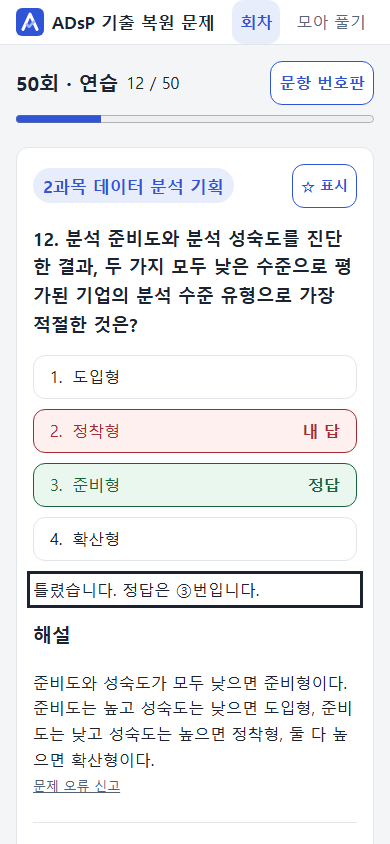
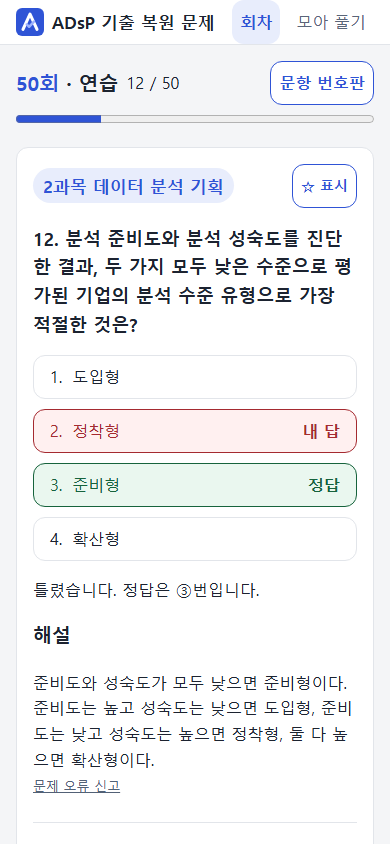
회차 이름에서 회차 정보로 이동, 화면 다듬기 (#24)
- 연습 / 시험 / 결과 / 다시 보기 맨 위의 회차 이름을 누르면 회차 정보로 이동
- 마지막 문제와 결과 화면의 단추를 회차 정보로 변경
- 회차 정보의 PDF 칸 정렬, 과목 구성 표 제목 줄바꿈 방지
- 정답 확인 뒤 결과 문장의 검은 테두리 제거
- 화면 이동 Test 안정화, README 화면 이미지 갱신

Changed region(s): [[0.0615, 0.6777, 0.9231, 0.7393], [0.0308, 0.0924, 0.1538, 0.1232], [0.9231, 0.6777, 0.9538, 0.7085]]

diff --git a/src/styles/main.css b/src/styles/main.css
@@ -161,6 +161,8 @@
 .round-number { font-size: var(--font-heading); }
 .card-status { display: flex; justify-content: space-between; gap: var(--space-small); margin-top: var(--space-medium); }
 .card-open, .breadcrumb a { color: var(--accent); }
+.round-title-link { color: var(--accent); text-decoration: none; }
+.round-title-link:hover, .round-title-link:focus { text-decoration: underline; }
 .round-card.in-progress { border-color: var(--accent); box-shadow: 0 0 0 2px var(--accent-soft); }
 .record-exam, .record-pass, .record-fail { display: inline-block; font-weight: 700; padding: var(--chip-padding-block) var(--chip-padding-inline); border-radius: var(--radius-pill); }
 .record-exam { color: var(--accent); background: var(--accent-soft); }
@@ -180,9 +182,11 @@
 .info-records h2, .subject-composition h2 { margin-bottom: var(--space-small); }
 .info-records p + p, .info-records .overview-actions { margin-top: var(--space-small); }
 .saved-score { font-size: var(--font-title); }
-.subject-composition table { width: 100%; table-layout: fixed; font-size: var(--font-small); }
+.subject-composition table { width: 100%; table-layout: auto; font-size: var(--font-small); }
 .subject-composition th { text-align: left; overflow-wrap: anywhere; }
-.subject-composition th:first-child { width: 54%; }
+.subject-composition th:first-child { width: auto; }
+.subject-composition thead th, .subject-composition td { white-space: nowrap; }
+.subject-composition th, .subject-composition td { padding-inline: 2px; }
 .subject-composition td { text-align: right; }
 @media (min-width: 640px) {
   .round-list, .mode-options { grid-template-columns: repeat(2, minmax(0, 1fr)); }
@@ -224,6 +228,7 @@ main { flex: 1; padding-block: var(--space-medium); }
 .secondary { color: var(--accent); background: var(--surface); }
 a:hover, button:hover { text-decoration: underline; }
 :focus-visible { outline: 3px solid #1c2330; outline-offset: 3px; }
+h2[tabindex="-1"], p[tabindex="-1"] { outline: none; }
 .state-panel { padding-block: var(--space-large); }
 .state-panel p { margin-bottom: var(--space-medium); }
 footer { padding: var(--space-medium); text-align: center; font-size: var(--font-small); color: var(--muted); background: var(--surface); border-top: 1px solid var(--border); }
@@ -325,10 +330,16 @@ button:disabled { cursor: default; }
 .download-actions { display: flex; align-items: center; gap: 1rem; flex-wrap: wrap; }
 .download-actions small { margin-left: .5rem; }
 .download-actions p { margin-bottom: 0; }
+.round-downloads .download-actions { display: grid; grid-template-columns: repeat(2, minmax(0, 1fr)); align-items: start; }
+.round-downloads .download-actions > div { min-width: 0; text-align: center; }
+.round-downloads .download-actions > div:only-child { grid-column: 1 / -1; }
+.round-downloads .button { width: 100%; }
 .round-downloads { margin-top: var(--space-medium); }
 .home-download-link { margin: 1.5rem 0; }
 @media (max-width: 767px) {
   .service-bar nav .pdf-nav { display: none; }
   .download-row { align-items: stretch; flex-direction: column; }
-  .round-downloads .download-actions { align-items: stretch; flex-direction: column; }
+}
+@media (max-width: 639px) {
+  .round-downloads .download-actions { grid-template-columns: minmax(0, 1fr); }
 }

diff --git a/src/pages/ExamResult.test.tsx b/src/pages/ExamResult.test.tsx
@@ -1,3 +1,4 @@
+import '../test/asyncQueries';
 import { act, cleanup, fireEvent, render, screen, waitFor, within } from '@testing-library/react';
 import { afterEach, beforeEach, expect, test, vi } from 'vitest';
 import App from '../App';
@@ -36,6 +37,28 @@ async function ready() {
 const readExam = () => JSON.parse(localStorage.getItem(recordKey(50, 'exam'))!);
 const choice = (number: number) => screen.getByRole('button', { name: new RegExp(`^${number}\\. 표본`) });
 const openSubmit = () => fireEvent.click(screen.getByRole('button', { name: '제출하고 채점' }));
+
+test('round heading exit saves answers and elapsed time and pauses until returning', async () => {
+  exam({}, 1, 60);
+  await ready();
+  fireEvent.click(choice(2));
+  vi.useFakeTimers({ shouldAdvanceTime: true });
+  await act(async () => { vi.advanceTimersByTime(3000); });
+  fireEvent.click(screen.getByRole('link', { name: '50회' }));
+  await screen.findByRole('heading', { name: 'ADsP 50회 복원 문제' });
+  expect(screen.queryByRole('dialog')).toBeNull();
+  const saved = readExam();
+  expect(saved.answers).toEqual({ 1: 2 });
+  expect(saved.elapsedSeconds).toBe(63);
+  await act(async () => { vi.advanceTimersByTime(10000); });
+  expect(readExam()).toEqual(saved);
+  fireEvent.click(screen.getByRole('link', { name: '시험 이어 풀기' }));
+  await screen.findByRole('heading', { name: '50회 · 시험' });
+  expect(choice(2).getAttribute('aria-pressed')).toBe('true');
+  expect(screen.getByText('남은 시간 88:57')).toBeTruthy();
+  expect(readExam().answers).toEqual(saved.answers);
+  expect(readExam().elapsedSeconds).toBe(63);
+});
 
 test('exam keyboard toggles choices and submit dialog traps and restores focus', async () => {
   await ready();
@@ -311,7 +334,7 @@ test.each([
 test.each([false, true])('question result links, counts and review action, perfect=%s', async perfect => {
   result(answersFor(perfect ? all : [1])); window.location.hash = '#/rounds/50/result'; render(<App />);
   await screen.findByRole('heading', { name: '50회 · 결과' });
-  expect(screen.getByRole('link', { name: '회차 목록' }).getAttribute('href')).toBe('#/rounds');
+  expect(screen.getByRole('link', { name: '회차 정보로' }).getAttribute('href')).toBe('#/rounds/50');
   await waitFor(() => expect(screen.getByRole('link', { name: '1번, 맞은 문제' }).getAttribute('href')).toBe('#/rounds/50/review?q=1'));
   await waitFor(() => expect(screen.getByRole('link', { name: `3번, ${perfect ? '맞은 문제' : '틀린 문제'}` }).getAttribute('href')).toBe('#/rounds/50/review?q=3'));
   expect(await screen.findByText(`틀린 문제 ${perfect ? 0 : 49}`)).toBeTruthy();

diff --git a/src/pages/PracticePage.tsx b/src/pages/PracticePage.tsx
@@ -82,12 +82,12 @@ function PracticeRound({ data }: { data: RoundData }) {
   const question = data.questions[current - 1];
   const board = <QuestionBoard marked={marks.marked} data={data} current={current} answers={answers} move={move} restart={restart} />;
   return <>
-    <div className="practice-heading"><div className="practice-heading-row"><h2>{data.round}회 · 연습</h2><p>{current} / {data.questions.length}</p><button className="board-toggle secondary" onClick={() => setOpen(true)}>문항 번호판</button></div><progress aria-label="현재 문제 위치" value={current} max={data.questions.length} /></div>
+    <div className="practice-heading"><div className="practice-heading-row"><h2><Link to={`/rounds/${data.round}`} className="round-title-link">{data.round}회</Link> · 연습</h2><p>{current} / {data.questions.length}</p><button className="board-toggle secondary" onClick={() => setOpen(true)}>문항 번호판</button></div><progress aria-label="현재 문제 위치" value={current} max={data.questions.length} /></div>
     {(!persistent || !marks.persistent) && <p className="notice">이 브라우저에서는 풀이 기록을 저장할 수 없습니다.</p>}
     <div className="practice-layout"><div className="practice-main">
       <QuestionView marked={Boolean(marks.marked[`${data.round}:${current}`])} toggleMark={() => marks.toggle(data.round, current)} round={data.round} question={question} subjects={data.subjects} selected={answers[current] ?? draft} confirmed={confirmed} choose={choose} />
       <nav className="practice-nav" aria-label="문제 이동"><button className="secondary" disabled={current === 1} onClick={() => move(current - 1)}>이전</button><button className={!confirmed && draft !== undefined ? '' : 'secondary'} aria-disabled={confirmed || draft === undefined} onClick={confirm}>정답 확인</button>
-        {current === data.questions.length ? <Link className={`button ${confirmed ? '' : 'secondary'}`} to="/rounds">회차 목록</Link> : <button className={confirmed ? '' : 'secondary'} onClick={() => move(current + 1)}>다음</button>}
+        {current === data.questions.length ? <Link className={`button ${confirmed ? '' : 'secondary'}`} to={`/rounds/${data.round}`}>회차 정보로</Link> : <button className={confirmed ? '' : 'secondary'} onClick={() => move(current + 1)}>다음</button>}
       </nav>
     </div><aside className="desktop-board" aria-label="문항 번호판">{board}</aside></div>
     {open && <Modal label="문항 번호판" close={() => setOpen(false)}><button className="secondary" onClick={() => setOpen(false)}>닫기</button>{board}</Modal>}

diff --git a/src/pages/ResultPage.tsx b/src/pages/ResultPage.tsx
@@ -17,7 +17,7 @@ function ResultRound({ data }: { data: RoundData }) {
   const result = scoreRound(data, record.answers);
   const wrong = result.questionCount - result.correctCount;
   return <section className="result-panel">
-    <div className="result-heading"><h2>{data.round}회 · 결과</h2><p>걸린 시간 {formatRemainingTime(record.elapsedSeconds)}</p></div>
+    <div className="result-heading"><h2><Link to={`/rounds/${data.round}`} className="round-title-link">{data.round}회</Link> · 결과</h2><p>걸린 시간 {formatRemainingTime(record.elapsedSeconds)}</p></div>
     {!store.canPersist() && <p className="notice">이 브라우저에서는 풀이 기록을 저장할 수 없습니다.</p>}
     <div className="result-summary"><p className="result-score">{result.score}점</p><p className={`result-verdict ${result.passed ? 'correct' : 'wrong'}`}>{result.passed ? '합격' : '불합격'}</p>
     {result.failureReasons.map(reason => <p key={reason}>{reason}</p>)}
@@ -28,6 +28,6 @@ function ResultRound({ data }: { data: RoundData }) {
     </section>)}</div>
     <h3>문항별 결과</h3>
     <div className="result-grid">{result.questions.map(question => <Link key={question.number} className={question.correct ? 'correct' : 'wrong'} aria-label={`${question.number}번, ${question.correct ? '맞은 문제' : '틀린 문제'}`} to={`/rounds/${data.round}/review?q=${question.number}`}>{question.number}</Link>)}</div><p>틀린 문제 {wrong}</p>
-    <nav className="round-actions"><Link className="button secondary" to="/rounds">회차 목록</Link><Link className="button" to={`/rounds/${data.round}/review${wrong ? '?filter=wrong' : ''}`}>{wrong ? '틀린 문제 보기' : '전체 문제 보기'}</Link></nav>
+    <nav className="round-actions"><Link className="button secondary" to={`/rounds/${data.round}`}>회차 정보로</Link><Link className="button" to={`/rounds/${data.round}/review${wrong ? '?filter=wrong' : ''}`}>{wrong ? '틀린 문제 보기' : '전체 문제 보기'}</Link></nav>
   </section>;
 }

diff --git a/src/App.test.tsx b/src/App.test.tsx
@@ -1,3 +1,4 @@
+import './test/asyncQueries';
 vi.mock('./data/loadDownloads', () => ({ loadDownloads: async () => ({ formatVersion: 1, rounds: {} }) }));
 import { cleanup, fireEvent, render, screen, waitFor, within } from '@testing-library/react';
 import { afterEach, beforeEach, expect, test, vi } from 'vitest';
@@ -130,6 +131,25 @@ test.each(['#/rounds/999', '#/rounds/999/practice'])('unknown round %s provides 
   window.location.hash = hash; render(<App />); await screen.findByText('없는 회차입니다.');
   expect(screen.getByRole('link', { name: '회차 목록으로' }).getAttribute('href')).toBe('#/rounds'); footer();
 });
+test.each(['practice', 'exam', 'result', 'review'] as const)('%s heading links only the round name to its information', async page => {
+  save(50, 'result', result);
+  window.location.hash = `#/rounds/50/${page}`;
+  render(<App />);
+  const link = await screen.findByRole('link', { name: '50회' });
+  // Question screens normalize their initial query asynchronously. Finish that
+  // navigation before clicking, otherwise it can replace the destination route.
+  if (page !== 'result') {
+    await waitFor(() => expect(window.location.hash).toBe(`#/rounds/50/${page}?q=1`));
+  }
+  expect(link.getAttribute('href')).toBe('#/rounds/50');
+  expect(link.textContent).toBe('50회');
+  expect(link.parentElement?.tagName).toBe('H2');
+  expect(link.parentElement?.textContent).toBe(`50회 · ${{ practice: '연습', exam: '시험', result: '결과', review: '다시 보기' }[page]}`);
+  fireEvent.click(link);
+  await screen.findByRole('heading', { name: 'ADsP 50회 복원 문제' });
+  expect(screen.queryByRole('dialog')).toBeNull();
+});
+
 test('unknown routes redirect to home', async () => {
   window.location.hash = '#/unknown'; render(<App />); await screen.findByRole('link', { name: '최신 50회 풀기' }); await waitFor(() => expect(window.location.hash).toBe('#/'));
 });

diff --git a/src/pages/ExamPage.tsx b/src/pages/ExamPage.tsx
@@ -2,7 +2,7 @@ import { useMarks } from '../storage/useMarks';
 import { Modal } from '../components/Modal';
 import { useQuestionKeys } from '../components/useQuestionKeys';
 import { useEffect, useRef, useState } from 'react';
-import { useNavigate, useSearchParams } from 'react-router';
+import { Link, useNavigate, useSearchParams } from 'react-router';
 import { RoundPage } from '../components/RoundPage';
 import type { PageProps } from '../components/LoadingState';
 import { QuestionView } from '../components/QuestionView';
@@ -120,7 +120,7 @@ function ExamRound({ data }: { data: RoundData }) {
   };
   const question = data.questions[current - 1];
   return <>
-    <div className="practice-heading"><h2>{data.round}회 · 시험</h2><p>푼 문제 {progress.answeredCount} / {data.questions.length}</p>
+    <div className="practice-heading"><h2><Link to={`/rounds/${data.round}`} className="round-title-link">{data.round}회</Link> · 시험</h2><p>푼 문제 {progress.answeredCount} / {data.questions.length}</p>
       <p className={isTimeWarning(timing.remainingSeconds) ? 'time-warning' : ''}>
         {timing.remainingSeconds >= 0 && '남은 시간 '}{formatRemainingTime(timing.remainingSeconds)}
         {timing.remainingSeconds >= 0 && isTimeWarning(timing.remainingSeconds) && ' · 10분 이하'}</p><progress aria-label="푼 문제 진행" value={progress.answeredCount} max={data.questions.length} /></div>

diff --git a/src/pages/PracticePage.test.tsx b/src/pages/PracticePage.test.tsx
@@ -1,3 +1,4 @@
+import '../test/asyncQueries';
 vi.mock('../data/loadDownloads', () => ({ loadDownloads: async () => ({ formatVersion: 1, rounds: {} }) }));
 import { cleanup, fireEvent, render, screen, waitFor, within } from '@testing-library/react';
 import { afterEach, beforeEach, expect, test, vi } from 'vitest';
@@ -203,8 +204,8 @@ test.each([1, 2])('grades selection %s once and preserves state through navigati
   await waitFor(() => expect(screen.getByRole('status').textContent).toBe(answer === 2 ? '맞았습니다.' : '틀렸습니다. 정답은 ②번입니다.'));
   fireEvent.click(screen.getByRole('button', { name: '다음' }));
   await waitFor(() => expect(window.location.hash).toContain('q=2'));
-  expect(await screen.findByRole('link', { name: '회차 목록' })).toBeTruthy();
-  expect(screen.getByRole('link', { name: '회차 목록' }).getAttribute('href')).toBe('#/rounds');
+  expect(await screen.findByRole('link', { name: '회차 정보로' })).toBeTruthy();
+  expect(screen.getByRole('link', { name: '회차 정보로' }).getAttribute('href')).toBe('#/rounds/50');
   await waitFor(() => expect(screen.queryByRole('button', { name: '다음' })).toBeNull());
   fireEvent.click(screen.getByRole('button', { name: '이전' }));
   await waitFor(() => expect(screen.getByRole('status').textContent).toContain(answer === 2 ? '맞았습니다' : '틀렸습니다'));

diff --git a/src/pages/DownloadsPage.test.tsx b/src/pages/DownloadsPage.test.tsx
@@ -1,3 +1,4 @@
+import '../test/asyncQueries';
 import { cleanup, fireEvent, render, screen, within, waitFor } from '@testing-library/react';
 import { afterEach, beforeEach, expect, test, vi } from 'vitest';
 import App from '../App';
@@ -37,6 +38,9 @@ test.each([true, false])('round info section with both / one types: %s', async b
   await screen.findByRole('heading', { name: 'PDF 내려받기' });
   expect(screen.getByRole('link', { name: /900회 풀이용 PDF 내려받기/ })).toBeTruthy();
   expect(!!screen.queryByRole('link', { name: /900회 해설용 PDF 내려받기/ })).toBe(both);
+  const actions = screen.getByRole('link', { name: /900회 풀이용 PDF 내려받기/ }).closest('.download-actions')!;
+  expect(within(actions as HTMLElement).getAllByRole('link')).toHaveLength(both ? 2 : 1);
+  expect(actions.children).toHaveLength(both ? 2 : 1);
   expect(downloadCalls()).toHaveLength(1);
 });
 test('no PDFs hides home link, header link and info section', async () => {

diff --git a/src/pages/ReviewPage.tsx b/src/pages/ReviewPage.tsx
@@ -37,7 +37,7 @@ function ReviewRound({ data }: { data: RoundData }) {
   useQuestionKeys({ toggleMark: () => marks.toggle(data.round, current), blocked: !record, previous: position > 0 ? () => move(scope[position - 1].number) : undefined, next: position < scope.length - 1 ? () => move(scope[position + 1].number) : undefined });
   if (!record) return <div className="state-panel"><p>시험 기록이 없습니다.</p><Link className="button" to={`/rounds/${data.round}/exam`}>시험 시작</Link></div>;
   return <>
-    <div className="practice-heading"><h2>{data.round}회 · 다시 보기</h2>
+    <div className="practice-heading"><h2><Link to={`/rounds/${data.round}`} className="round-title-link">{data.round}회</Link> · 다시 보기</h2>
       <p>{filtered ? '틀린 문제' : '전체'} {position + 1} / {scope.length}</p>
     </div>
     {!marks.persistent && <p className="notice">이 브라우저에서는 풀이 기록을 저장할 수 없습니다.</p>}

diff --git a/src/test/asyncQueries.ts b/src/test/asyncQueries.ts
@@ -1,0 +1,6 @@
+import { configure } from '@testing-library/react';
+
+// Route changes load round data before rendering. Allow headroom when the full
+// suite runs under load; queries still finish immediately when content appears.
+// Import only in page suites so component and domain tests keep their defaults.
+configure({ asyncUtilTimeout: 3000 });

diff --git a/src/pages/ReviewRecords.test.tsx b/src/pages/ReviewRecords.test.tsx
@@ -1,3 +1,4 @@
+import '../test/asyncQueries';
 vi.mock('../data/loadDownloads', () => ({ loadDownloads: async () => ({ formatVersion: 1, rounds: {} }) }));
 import { cleanup, fireEvent, render, screen, waitFor, within } from '@testing-library/react';
 import { afterEach, beforeEach, expect, test, vi } from 'vitest';

diff --git a/src/pages/RoundInfoPage.test.tsx b/src/pages/RoundInfoPage.test.tsx
@@ -1,3 +1,4 @@
+import '../test/asyncQueries';
 import { cleanup, render, screen, waitFor } from '@testing-library/react';
 import { afterEach, expect, test, vi } from 'vitest';
 import { MemoryRouter, Routes, Route } from 'react-router';
